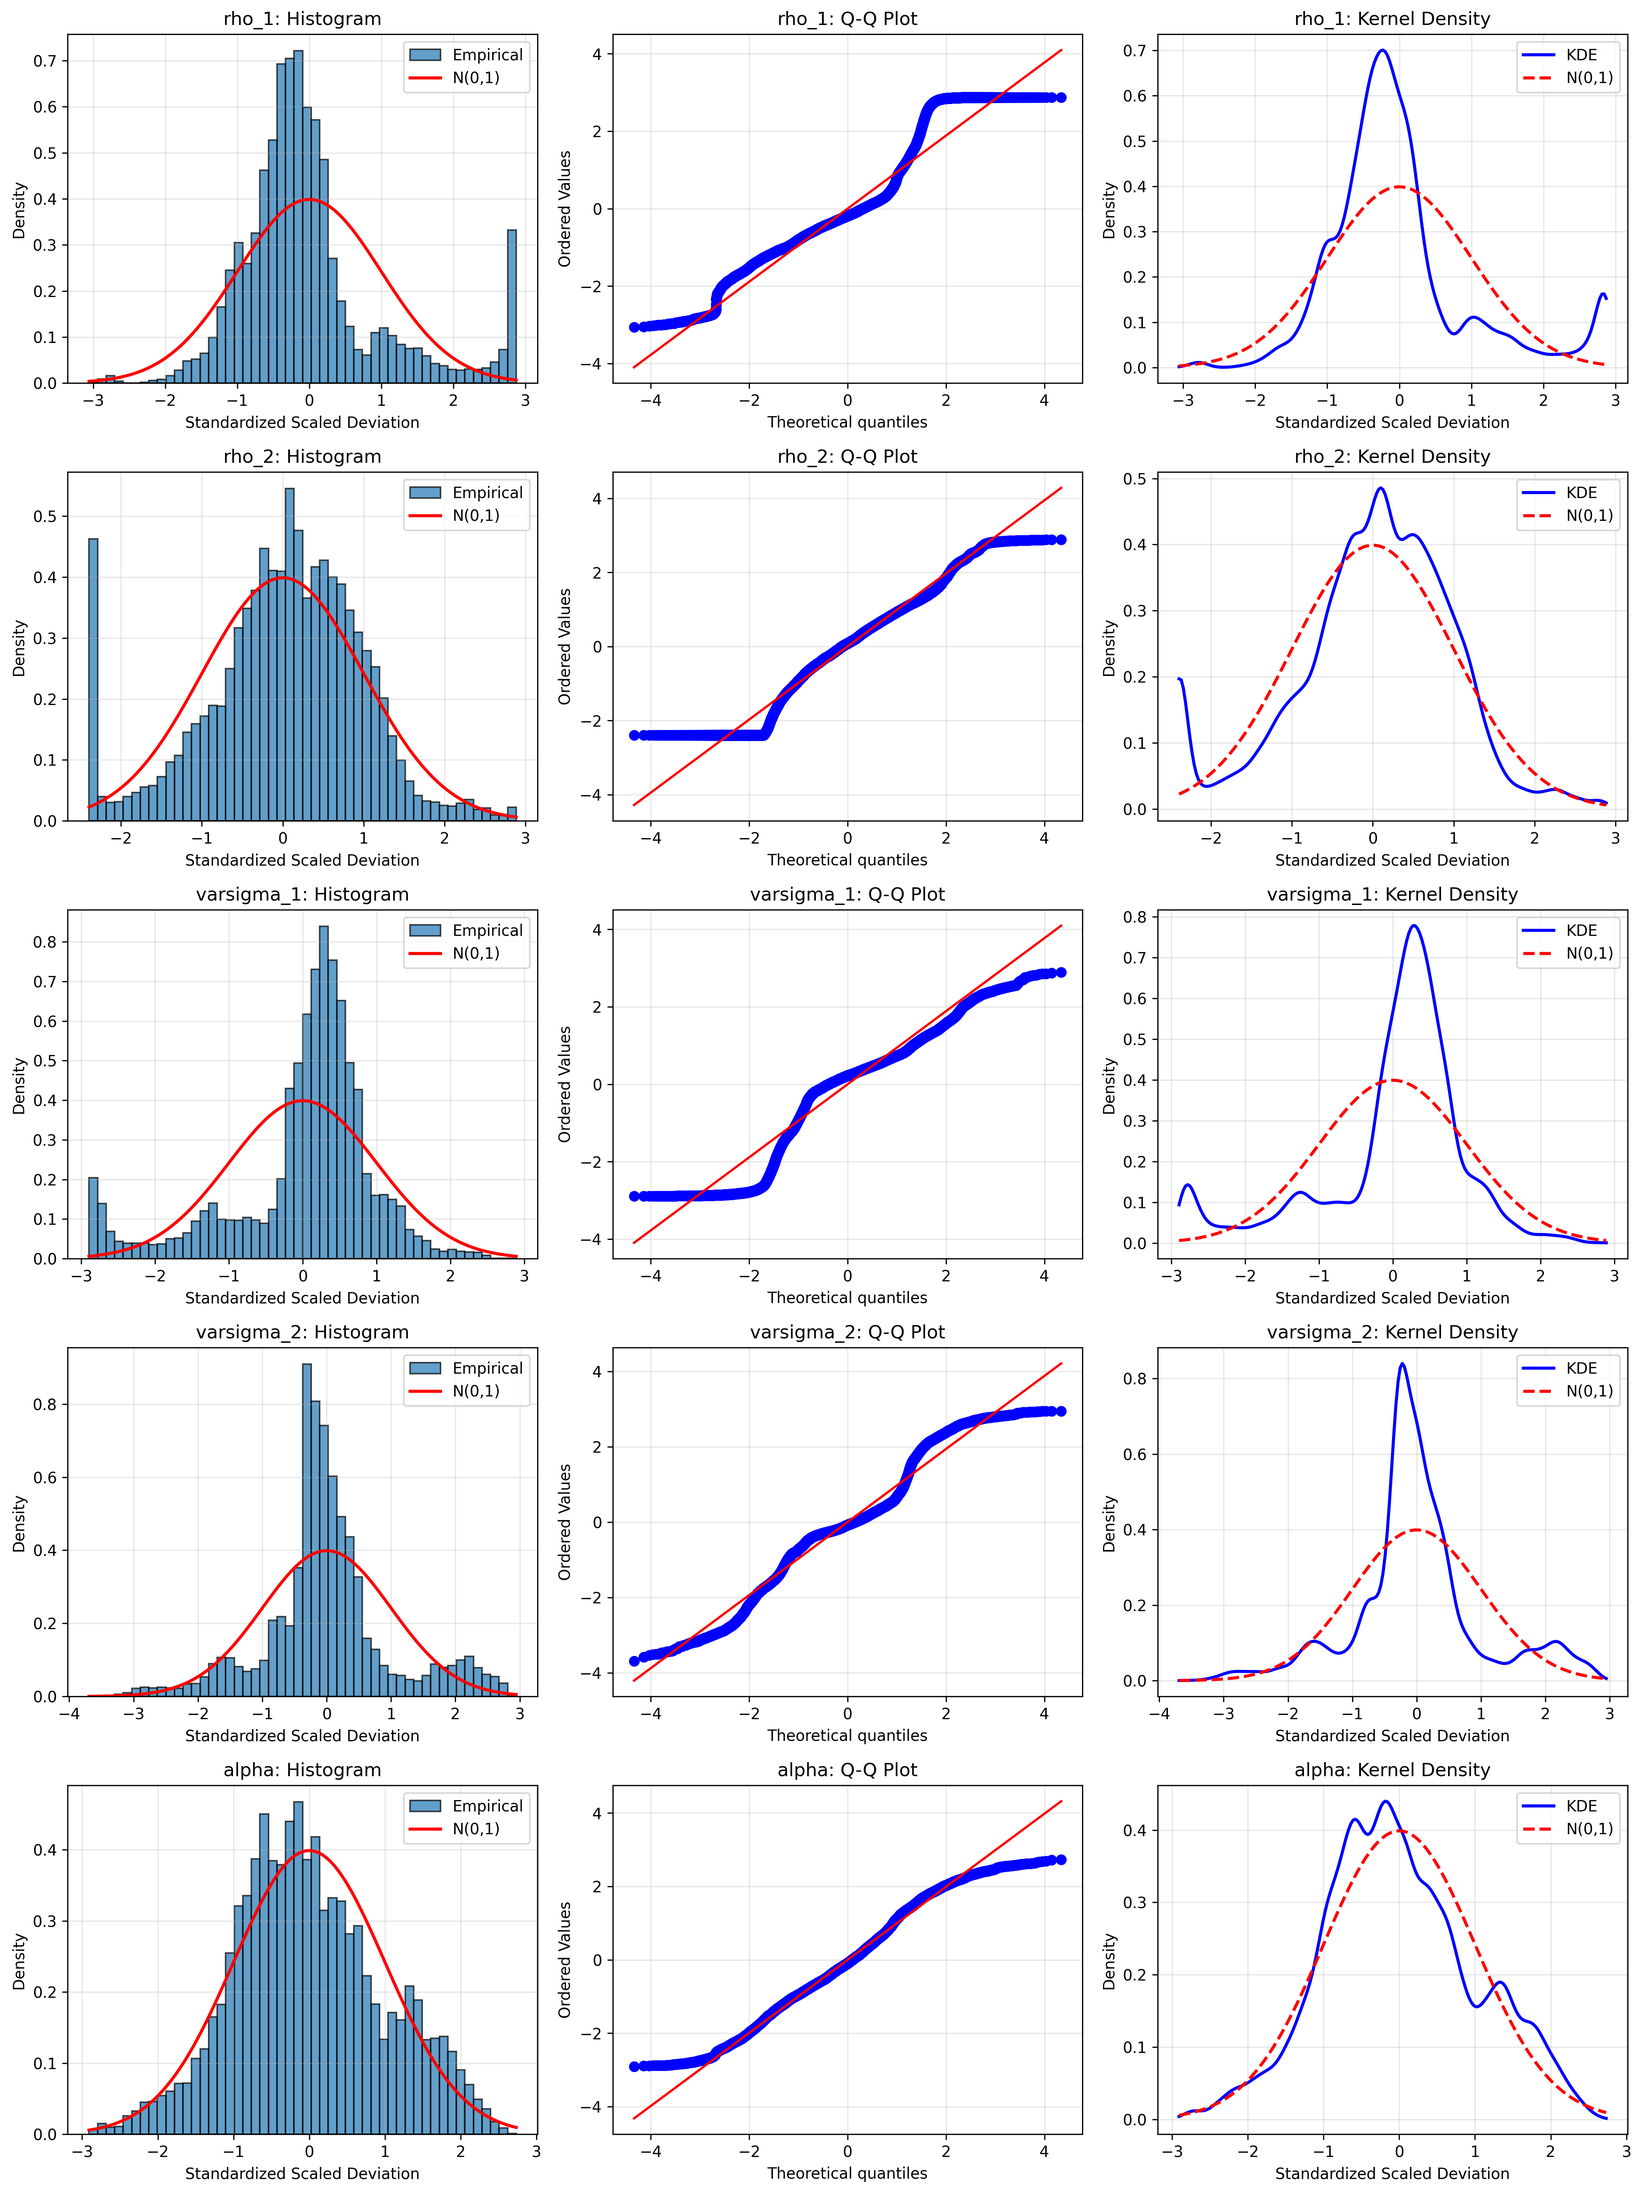
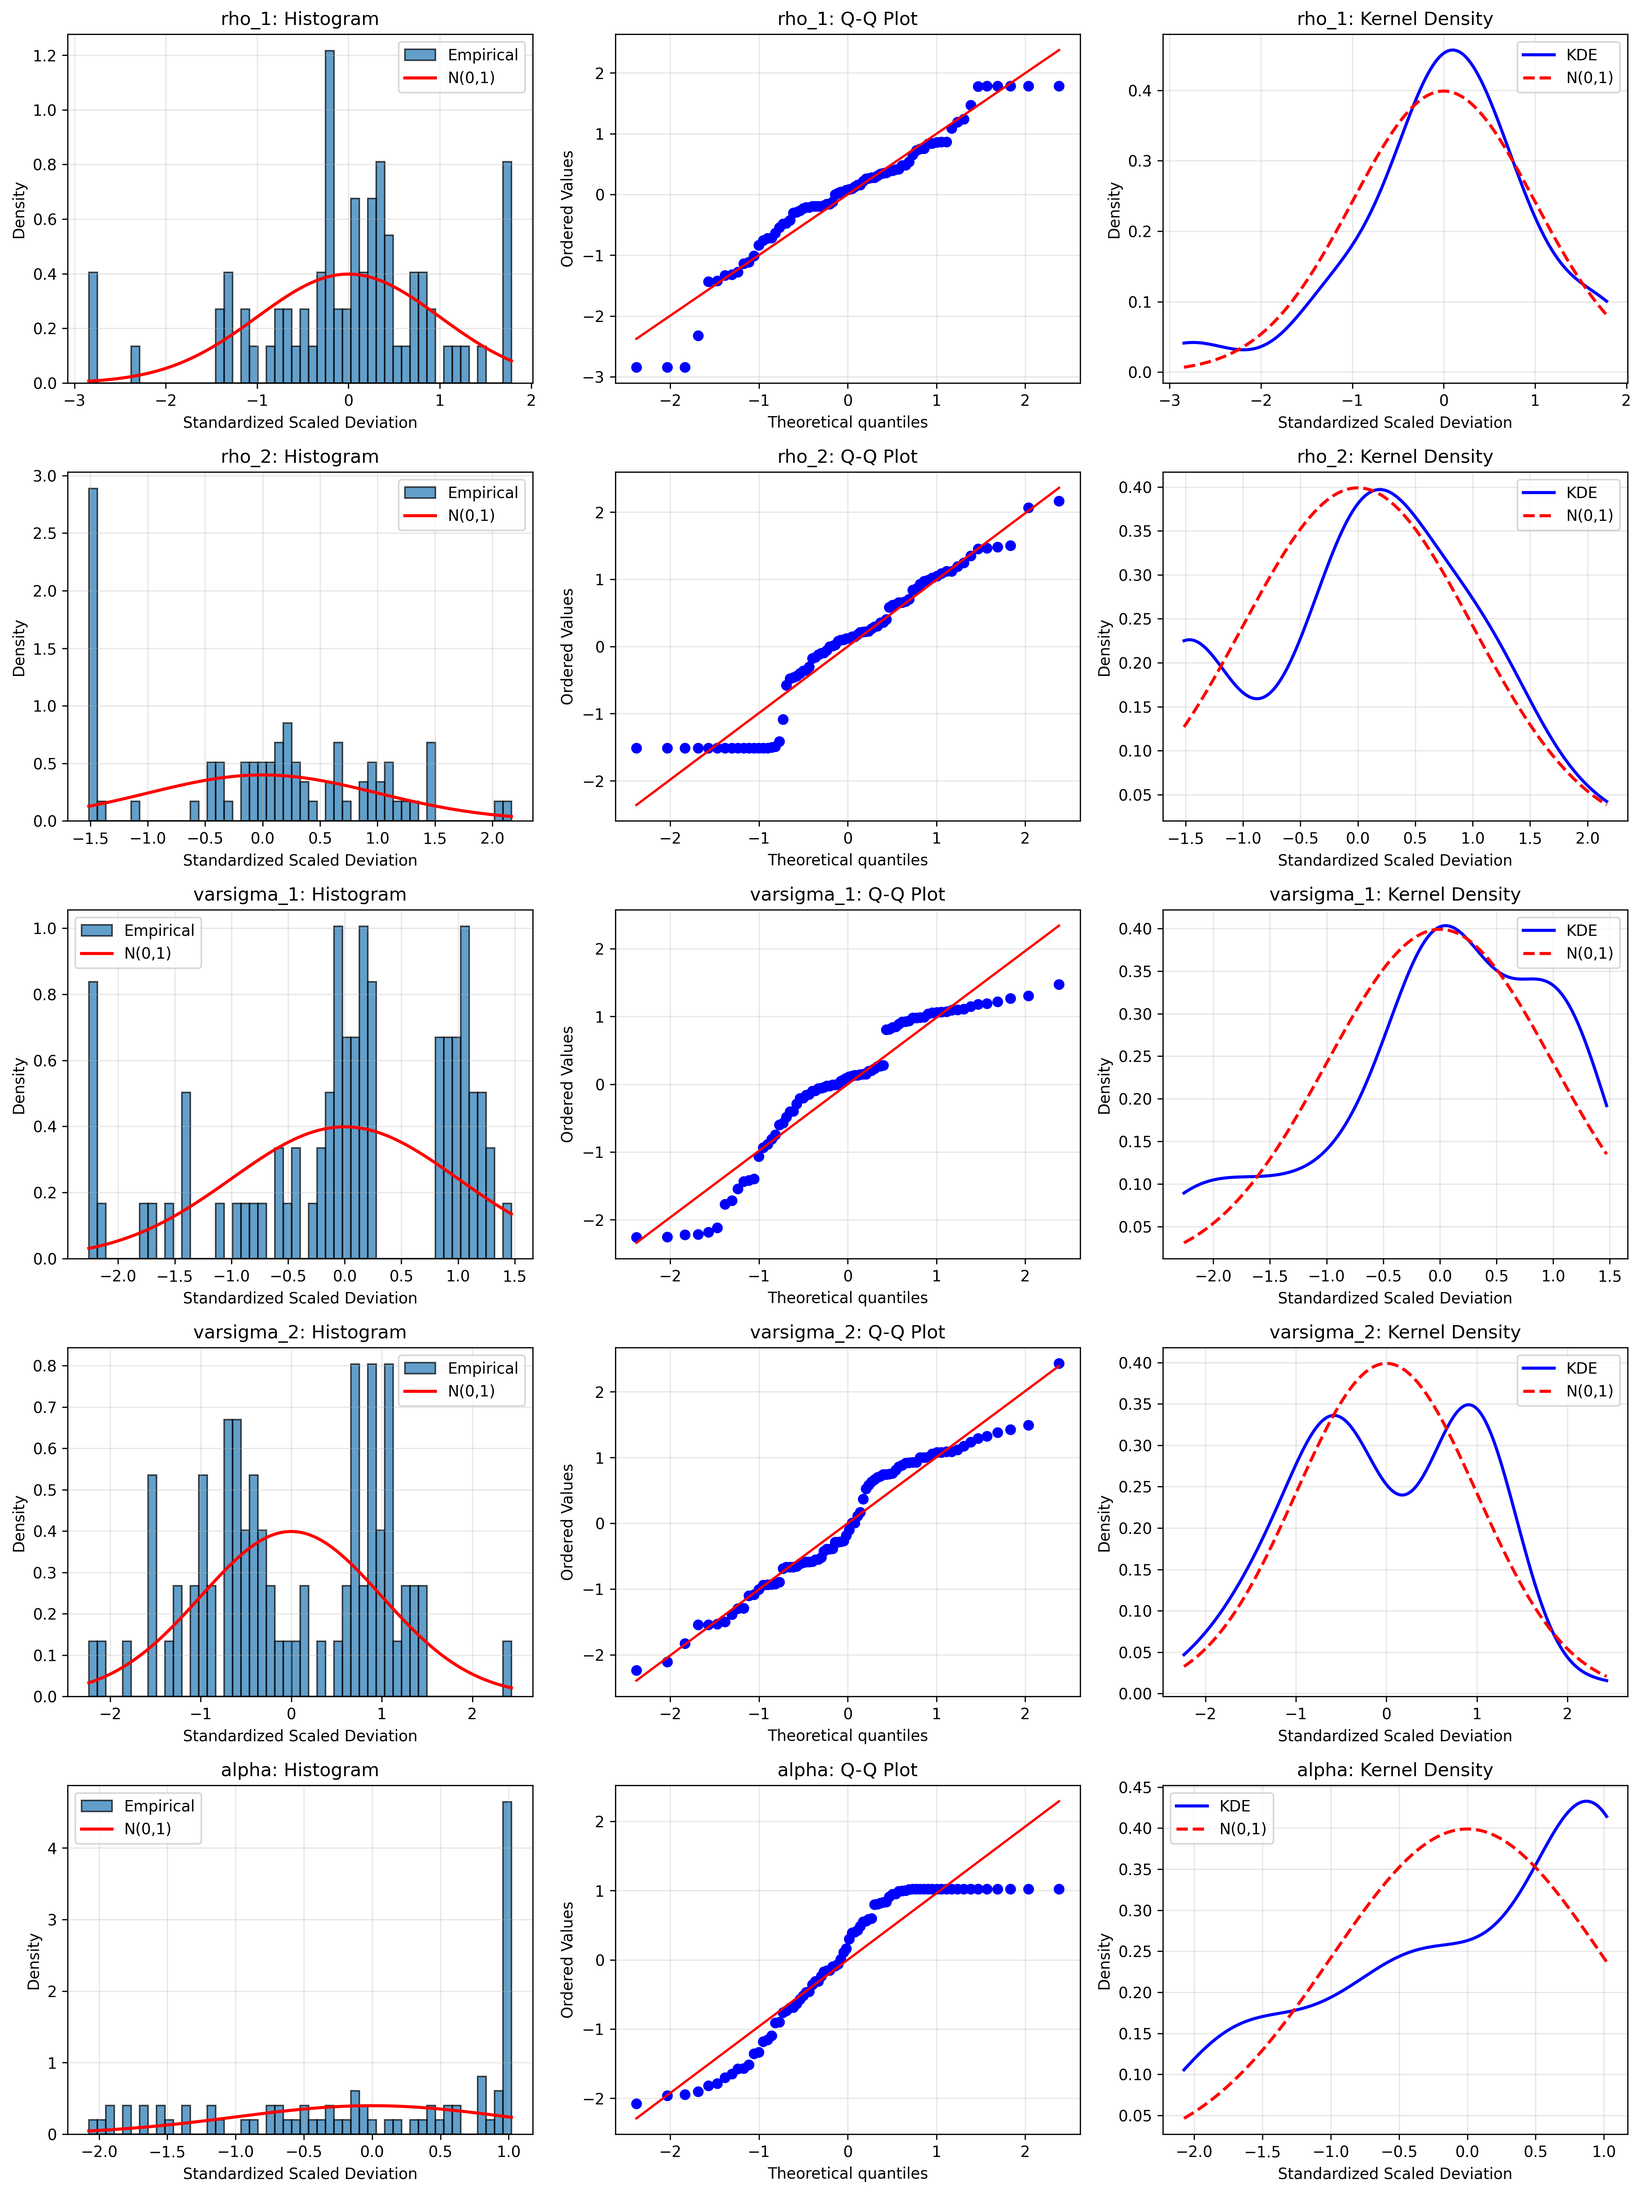
up

diff --git a/example_execution.py b/example_execution.py
@@ -50,7 +50,7 @@ analyzer = SubsamplingAnalysis(
 )
 
 # Generate time series
-n = 100000
+n = 100
 print(f"\nSample size: n = {n}")
 Y = analyzer.generate_data(n=n, seed=42)
 print(f"Generated data: mean = {Y.mean():.4f}, std = {Y.std():.4f}")
@@ -138,23 +138,24 @@ print("  - For demonstration: M=50 replications, 2 sample sizes (~30-60 min)")
 print("  - For publication: M=500 replications, 4 sample sizes (~10-20 hours)")
 
 # Ask user if they want to run convergence study
-#run_convergence = input("\nRun convergence study? (y/n): ").lower().strip()
+# run_convergence = input("\nRun convergence study? (y/n): ").lower().strip()
 # Uncomment the line below for interactive mode:
 
 
 #if run_convergence == 'y':
-print("\nStarting convergence study...")
-print("You can monitor progress in the console output.")
-print("Press Ctrl+C to interrupt if needed.\n")
+#print("\nStarting convergence study...")
+#print("You can monitor progress in the console output.")
+#print("Press Ctrl+C to interrupt if needed.\n")
     
-    #try:
-        # Run with reduced parameters for demonstration
-        # To replicate paper results, use:
-        #   sample_sizes=[250, 500, 1000, 2000]
-        #   M=500
+#try:
+# Run with reduced parameters for demonstration
+# To replicate paper results, use:
+#   sample_sizes=[250, 500, 1000, 2000]
+#   M=500
+
 results_conv, summaries_conv = convergence_study(
     sample_sizes=[100000],  # Reduced for demo
-    M=100,  # Reduced for demo (use 500 for publication)
+    M=1,  # Reduced for demo (use 500 for publication)
     save_dir=output_dir,  # Use output_dir instead of '/outputs'
     n_jobs=-1
     )
@@ -171,13 +172,13 @@ print("  ✓ Mean converging to 0")
 print("  ✓ Skewness and kurtosis decreasing in magnitude")
 print("  ✓ Test p-values increasing (moving away from rejection)")
         
-    #except KeyboardInterrupt:
-    #    print("\n\nConvergence study interrupted by user.")
-    #except Exception as e:
-    #    print(f"\n\nError in convergence study: {e}")
-    #    print("Check the error message above for details.")
-    #    import traceback
-    #    traceback.print_exc()
+# except KeyboardInterrupt:
+#    print("\n\nConvergence study interrupted by user.")
+# except Exception as e:
+#    print(f"\n\nError in convergence study: {e}")
+#    print("Check the error message above for details.")
+# #    import traceback
+#    traceback.print_exc()
         
 #else:
 #    print("\nSkipping convergence study.")
